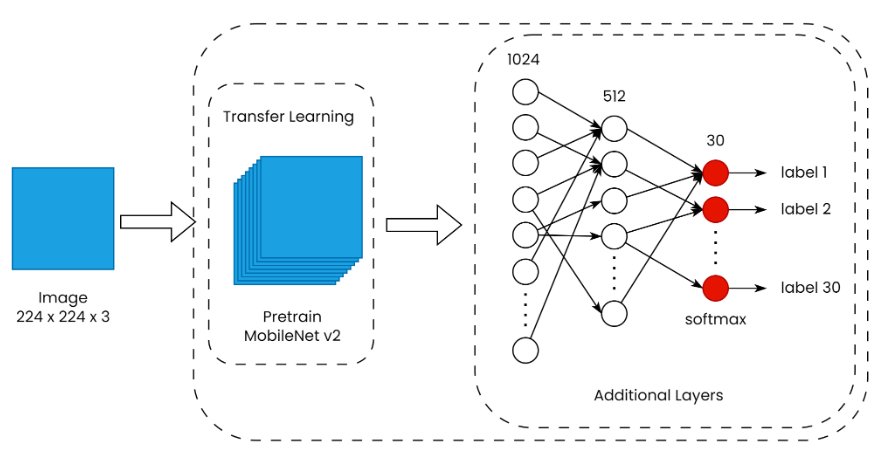
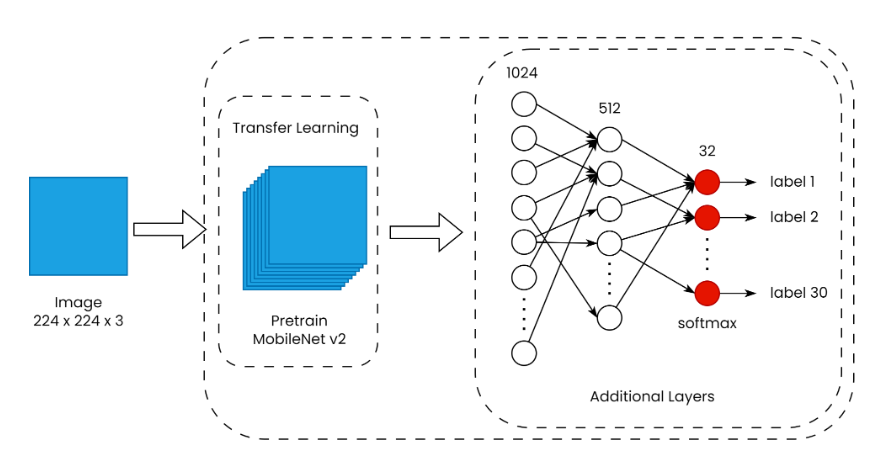
fix: fix readme

diff --git a/README.md b/README.md
@@ -12,6 +12,9 @@ This API serves as a tool to identify various food items depicted in images. The
 - `/app`: Includes the API code for handling image uploads and making predictions.
 - `/app/model`: Contains fine-tuned models used for food name detection and food items segmentation
 
+## Dataset
+The dataset used for fine-tuning the models is [Breeze Food-Dataset](https://github.com/bangkit-breeze/breeze-datasets). The data contains 32 food categories with around 200 images per category. The dataset is collected by scraping google images and manually filtered by the team.
+
 ## API Documentation
 The following endpoints are provided in this application:  
 | Method | Endpoint                     | Description                                        |
@@ -79,3 +82,9 @@ This repository is deployed using Docker
 ## References
 - Sandler, M., Howard, A., Zhu, M., Zhmoginov, A., & Chen, L. C. (2018). Mobilenetv2: Inverted residuals and linear bottlenecks. In Proceedings of the IEEE conference on computer vision and pattern recognition (pp. 4510-4520). [Read this paper](https://openaccess.thecvf.com/content_cvpr_2018/html/Sandler_MobileNetV2_Inverted_Residuals_CVPR_2018_paper.html)
 - [FastAPI](https://fastapi.tiangolo.com/)
+
+## Collaborator
+Create with ❤ by Breeze Machine Learning Team
+- Hafidz Nur Rahman Ghozali
+- Gilang Banyu Biru Erassunu
+- Muhammad Daffa Ramadhan
